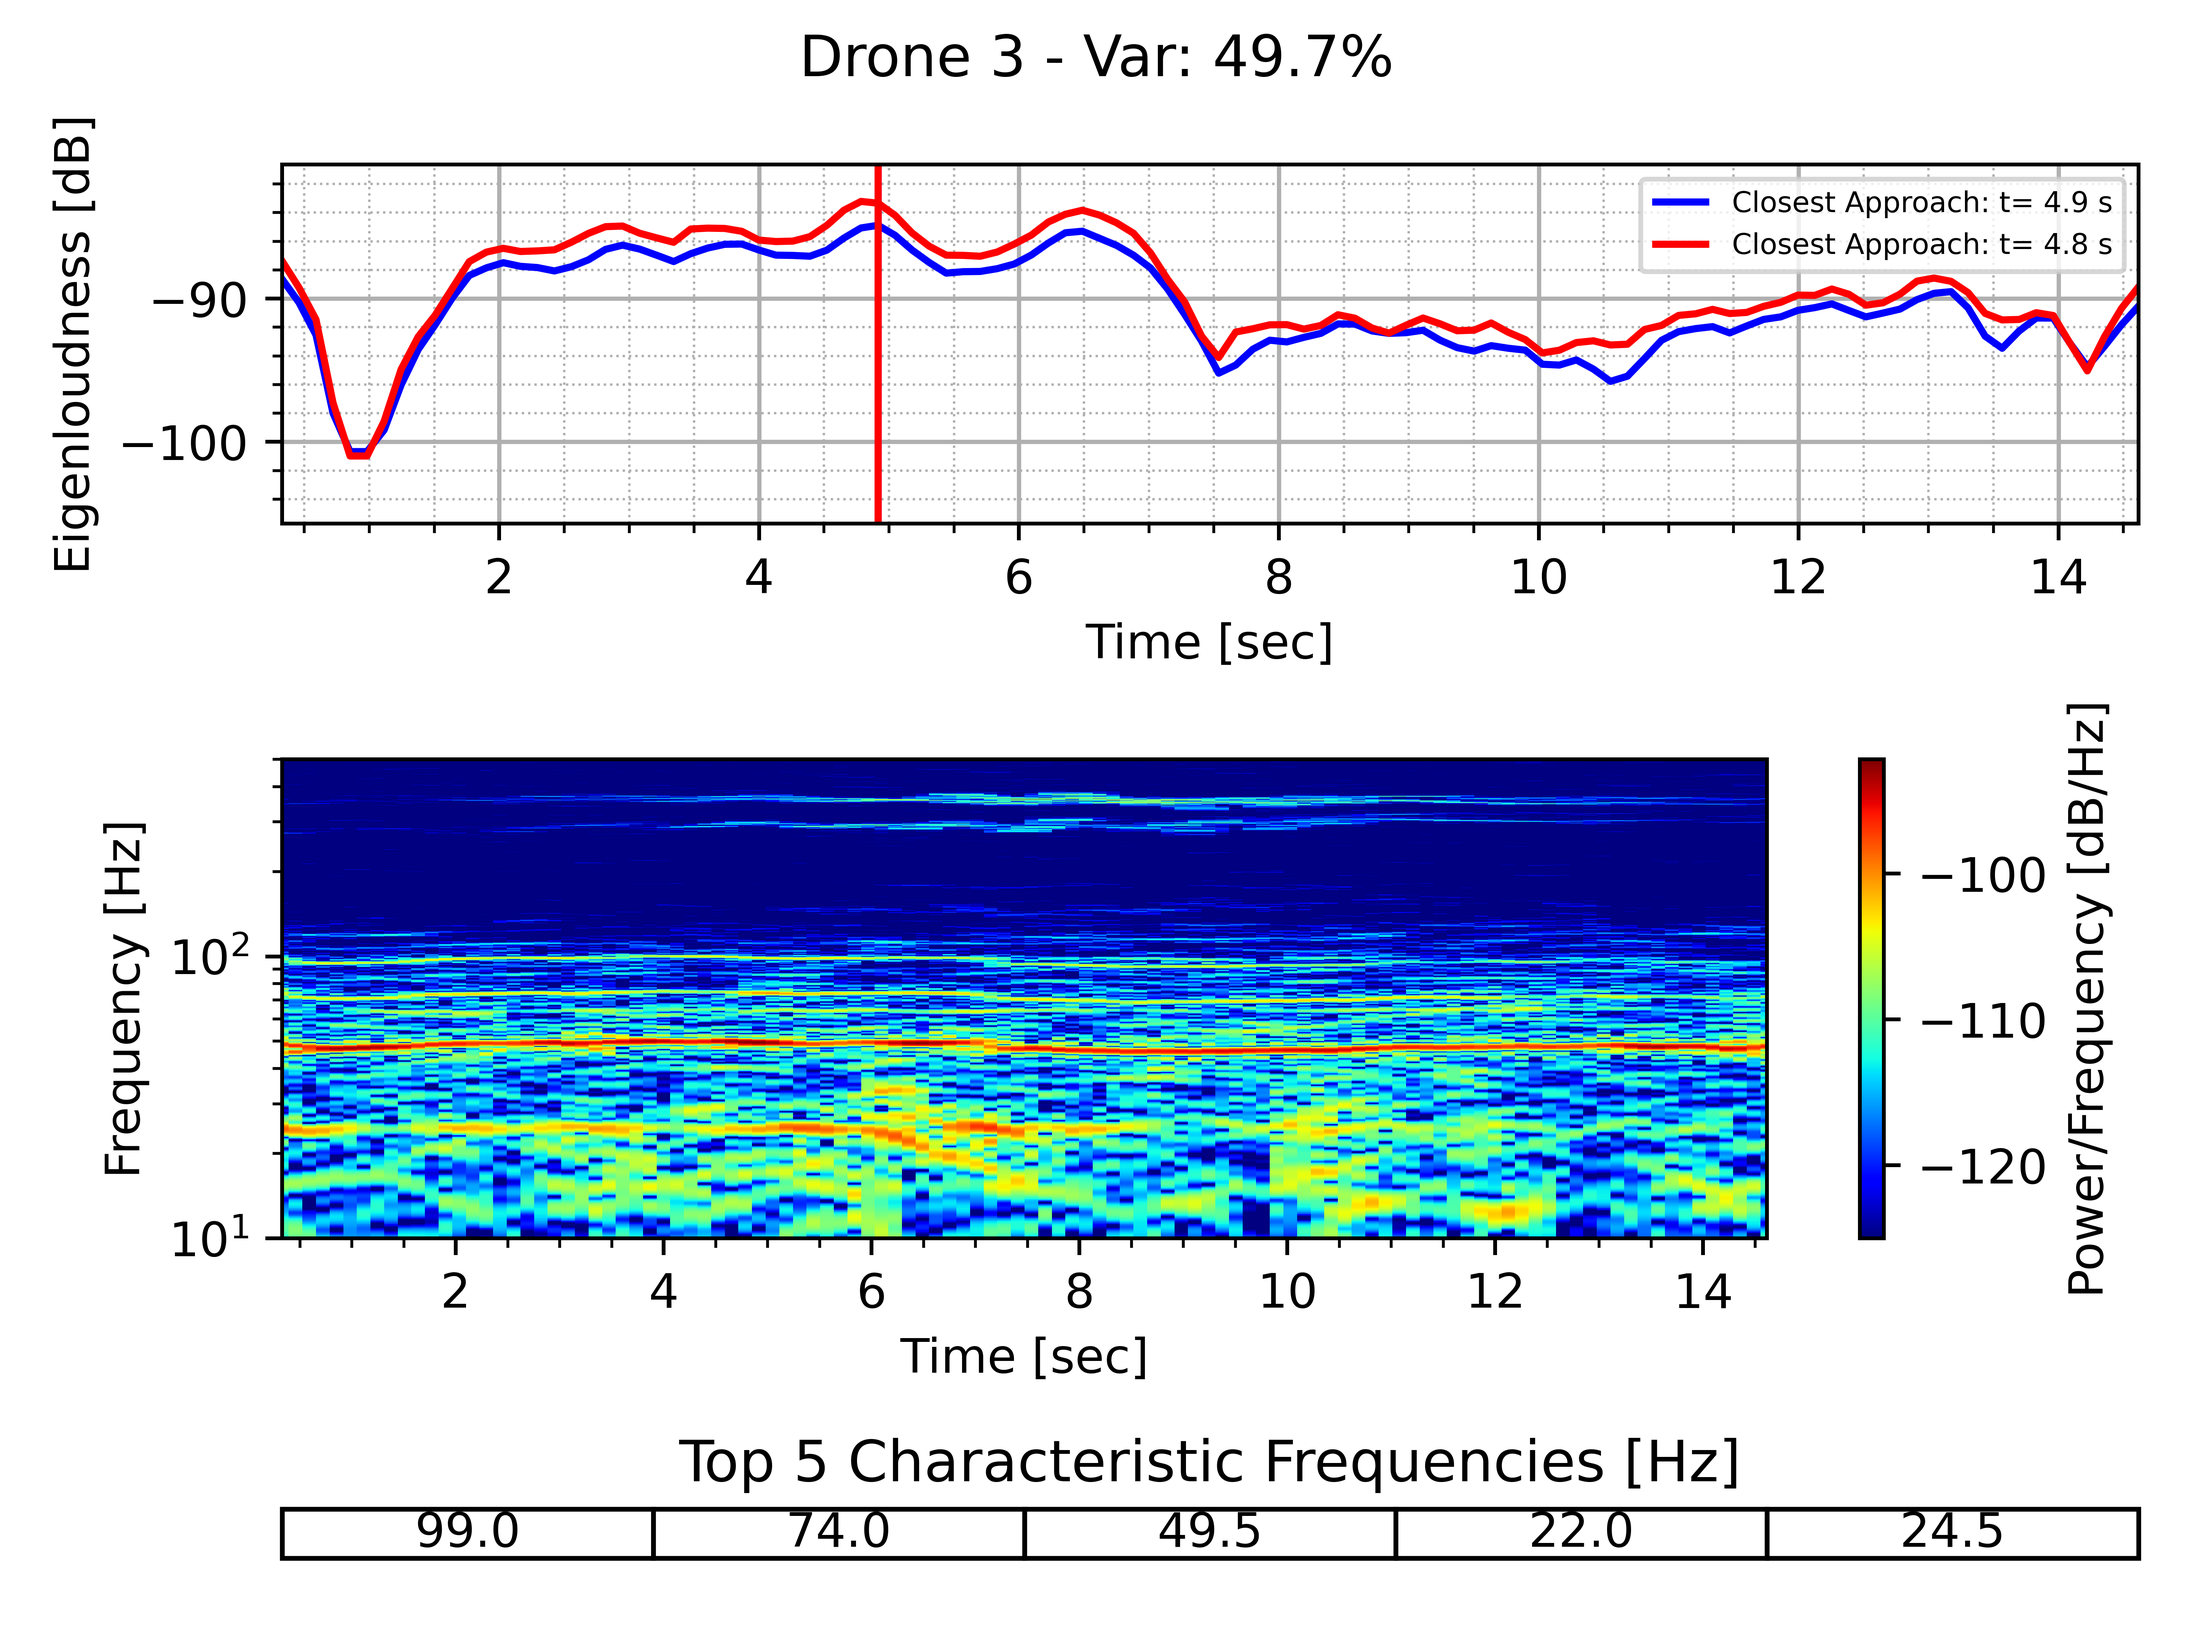
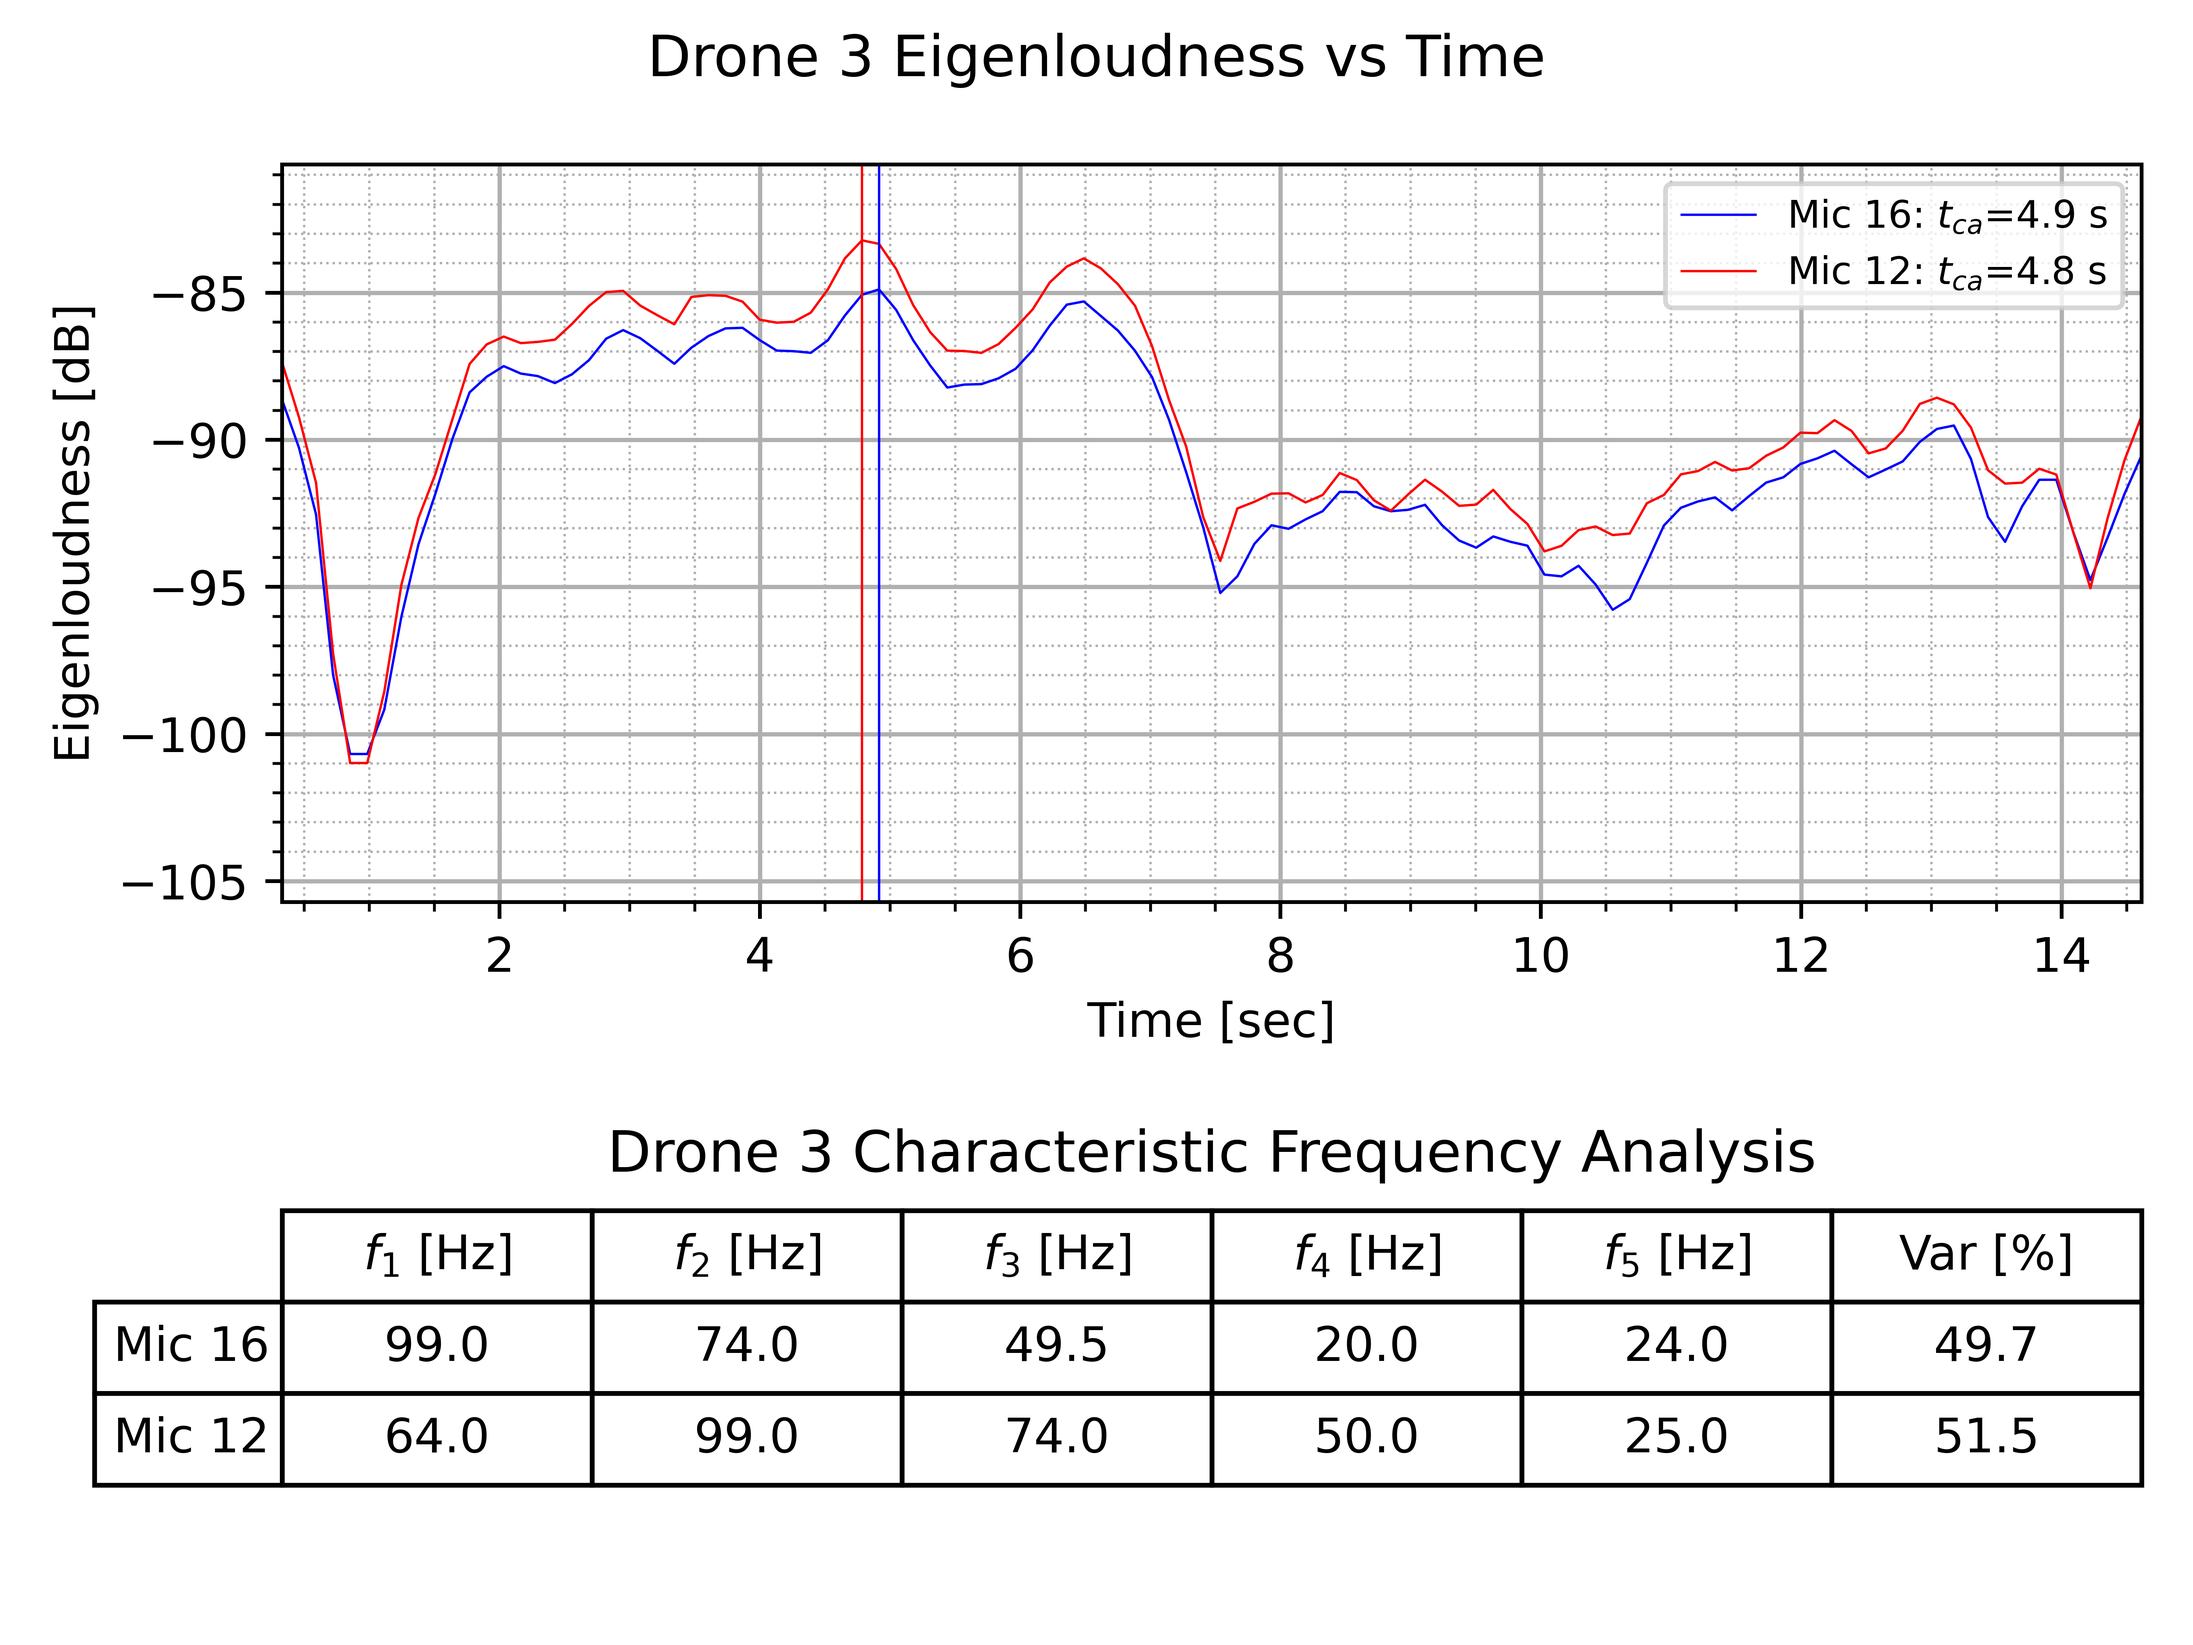
Cleaning the Git.

diff --git a/audio_script_3_PCA_v4.py b/audio_script_3_PCA_v4.py
@@ -93,8 +93,8 @@ for flight_number in range(1, 6):
 
     # Reduce
     pca = PCA(1)
-    red = np.array(pca.fit_transform(Sxx_legacy_d.T)[:, 0])
-    #red = np.array(pca.fit_transform(Sxx_legacy.T)[:, 0])
+    #red = np.array(pca.fit_transform(Sxx_legacy_d.T)[:, 0])
+    red = np.array(pca.fit_transform(Sxx_legacy.T)[:, 0])
     weights = pca.components_.reshape(-1)
     weighter = np.sum(weights)
     variance = pca.explained_variance_ratio_
@@ -186,8 +186,8 @@ for flight_number in range(1, 6):
 
     # Reduce
     pca = PCA(1)
-    red = np.array(pca.fit_transform(Sxx_legacy_d.T)[:, 0])
-    #red = np.array(pca.fit_transform(Sxx_legacy.T)[:, 0])
+    #red = np.array(pca.fit_transform(Sxx_legacy_d.T)[:, 0])
+    red = np.array(pca.fit_transform(Sxx_legacy.T)[:, 0])
     weights = pca.components_.reshape(-1)
     weighter = np.sum(weights)
     variance = pca.explained_variance_ratio_
@@ -307,6 +307,6 @@ for flight_number in range(1, 6):
 
     plt.subplots_adjust(hspace=0.1)
     plt.tight_layout()
-    plt.savefig(fname=f"Drone {flight_number} PCA Combined (Denoised)",dpi=900)
+    plt.savefig(fname=f"Drone {flight_number} PCA Combined",dpi=900)
 
     plt.show()
